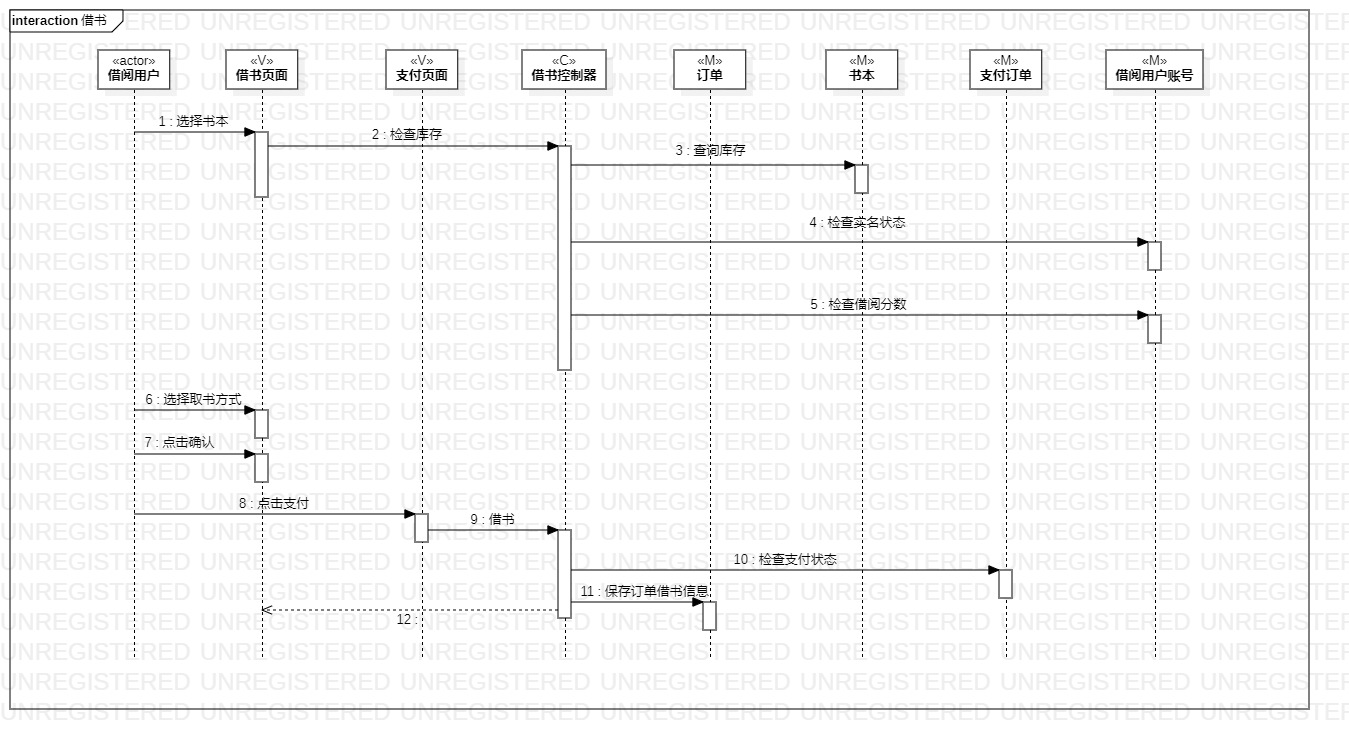
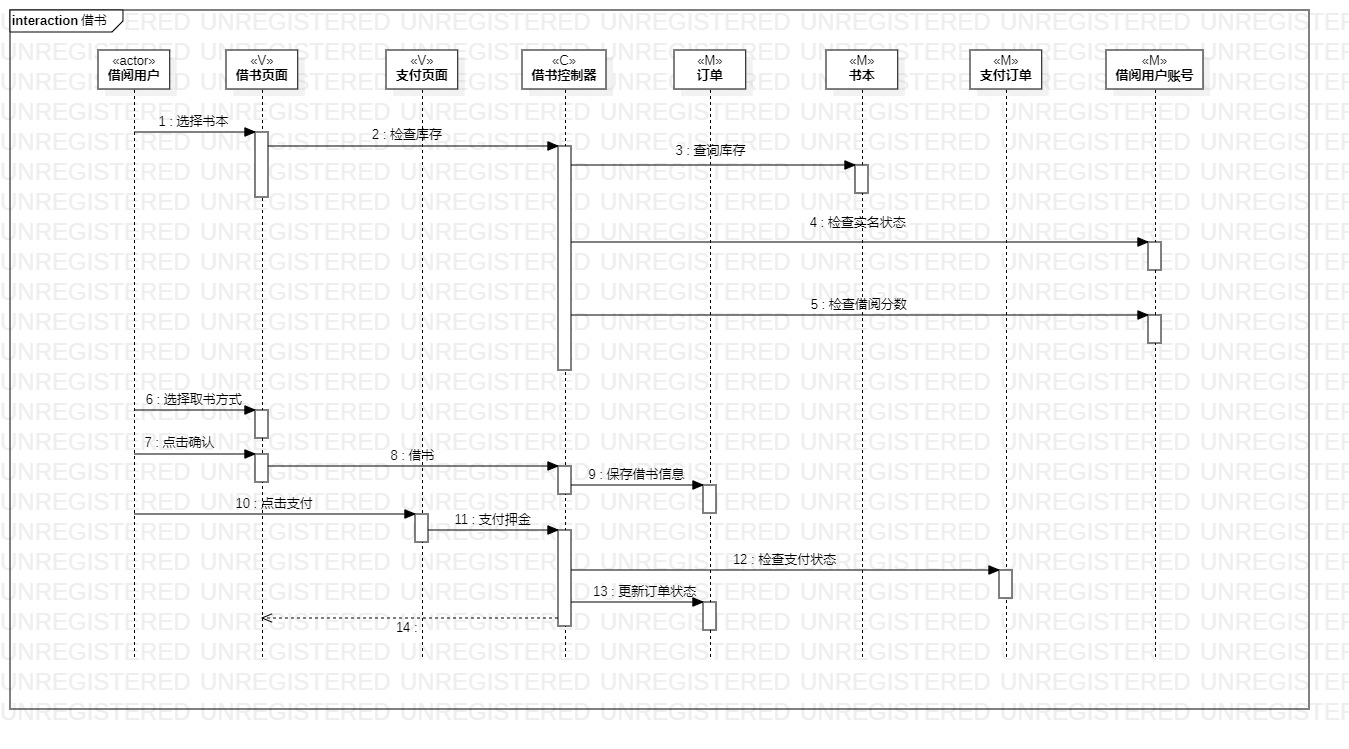
修改借书流程

diff --git a/students/1714080902238/lab2.md b/students/1714080902238/lab2.md
@@ -35,7 +35,7 @@
 基本流程  | 1. 借阅用户选好自己想要借的一本书，点击确定；  |*用例执行成功的步骤*    
 ~| 2. 系统查询到书本还有库存，检查到借阅用户已实名认证以及检查到借阅用户借书信用分数合格；  |   
 ~| 3. 借阅用户选择自取或者邮寄，点击确认；  |   
-~| 4. 显示支付页面；  |   
+~| 4. 系统保存订单借书信息，显示支付页面；  |   
 ~| 5. 借阅用户支付押金；  |   
 ~| 6. 系统检查支付状态，保存订单的借书信息；  |   
 
